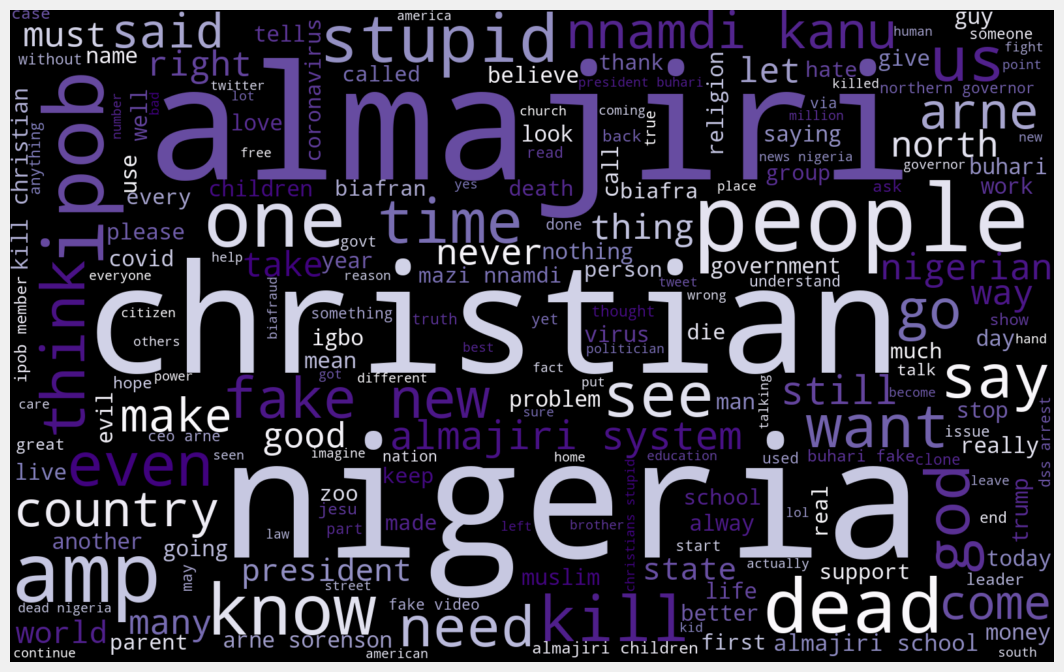
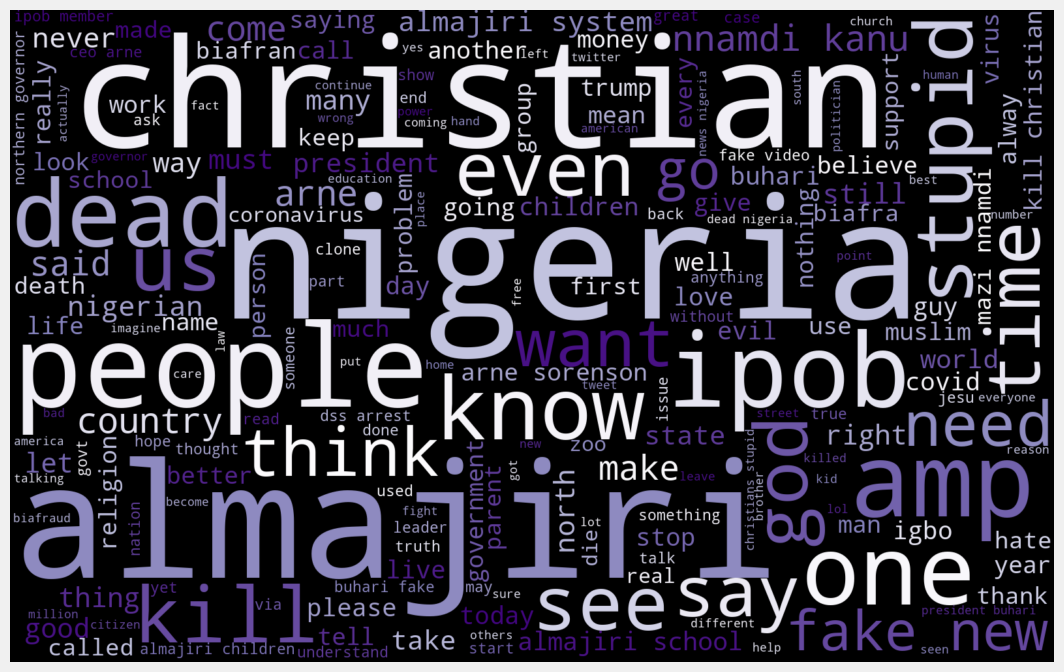
Modify bigram and trigram makers

diff --git a/pre_training.py b/pre_training.py
@@ -97,80 +97,34 @@ def create_wordcloud(df, outfile, colormap=None):
     plt.close()
 
 
-def create_most_frequent_bigrams_neg(train, n=20):
-    fig, ax = plt.subplots(figsize=(12, 10))
-    bigrams_series = pd.Series(_get_bigrams_neg(train)).value_counts()[:n]
-    bigrams_series.sort_values().plot.barh(color="teal", width=0.9, ax=ax)
-    # plt.title(f"{n} Most Frequently Occuring Bigrams (Hate-speech Tweets)")
-    plt.ylabel("Bigram")
-    plt.xlabel("Frequency")
-    plt.savefig(DATA_DIR / "bigrams_neg.png", bbox_inches="tight")
+def create_modal_bigrams(df, outfile, n=20):
+    fig, ax = plt.subplots(figsize=(16, 10))
+    bigram_series = pd.Series(_get_bigrams(df)).value_counts()[:n]
+    bigram_series.sort_values().plot.barh(color="green", alpha=0.5, width=1, ax=ax)
+    plt.savefig(outfile, bbox_inches="tight")
     plt.close()
 
 
-def create_most_frequent_bigrams_pos(train, n=20):
-    fig, ax = plt.subplots(figsize=(12, 10))
-    bigrams_series = pd.Series(_get_bigrams_pos(train)).value_counts()[:n]
-    bigrams_series.sort_values().plot.barh(color="teal", width=0.9, ax=ax)
-    # plt.title(f"{n} Most Frequently Occuring Bigrams (Non-hate-speech Tweets)")
-    plt.ylabel("Bigram")
-    plt.xlabel("Frequency")
-    plt.savefig(DATA_DIR / "bigrams_pos.png", bbox_inches="tight")
+def create_modal_trigrams(df, outfile, n=20):
+    fig, ax = plt.subplots(figsize=(16, 10))
+    bigram_series = pd.Series(_get_trigrams(df)).value_counts()[:n]
+    bigram_series.sort_values().plot.barh(color="green", alpha=0.5, width=1, ax=ax)
+    plt.savefig(outfile, bbox_inches="tight")
     plt.close()
 
 
-def create_most_frequent_trigrams_neg(train, n=20):
-    fig, ax = plt.subplots(figsize=(12, 10))
-    trigrams_series = pd.Series(_get_trigrams_neg(train)).value_counts()[:n]
-    trigrams_series.sort_values().plot.barh(color="teal", width=0.9, ax=ax)
-    # plt.title(f"{n} Most Frequently Occuring Trigrams (Hate-speech Tweets)")
-    plt.ylabel("Trigram")
-    plt.xlabel("Frequency")
-    plt.savefig(DATA_DIR / "trigrams_neg.png", bbox_inches="tight")
-    plt.close()
+def _get_bigrams(df):
+    list_of_bigrams = (
+        df["Tweet"].map(lambda tweet: list(nltk.ngrams(tweet.split(), 2))).to_list()
+    )
+    return [item for sublist in list_of_bigrams for item in sublist]
 
 
-def create_most_frequent_trigrams_pos(train, n=20):
-    fig, ax = plt.subplots(figsize=(12, 10))
-    trigrams_series = pd.Series(_get_trigrams_pos(train)).value_counts()[:n]
-    trigrams_series.sort_values().plot.barh(color="teal", width=0.9, ax=ax)
-    # plt.title(f"{n} Most Frequently Occuring Trigrams (Non-hate-speech Tweets)")
-    plt.ylabel("Trigram")
-    plt.xlabel("Frequency")
-    plt.savefig(DATA_DIR / "trigrams_pos.png", bbox_inches="tight")
-    plt.close()
-
-
-def _get_bigrams_neg(train):
-    neg_tweets = train[train.Polarity == 1]
-    list_of_neg_bigrams = neg_tweets.Tweet.map(
-        lambda tweet: list(nltk.ngrams(tweet.split(), 2))
-    ).to_list()
-    return [item for sublist in list_of_neg_bigrams for item in sublist]
-
-
-def _get_trigrams_neg(train):
-    neg_tweets = train[train.Polarity == 1]
-    list_of_neg_trigrams = neg_tweets.Tweet.map(
-        lambda tweet: list(nltk.ngrams(tweet.split(), 3))
-    ).to_list()
-    return [item for sublist in list_of_neg_trigrams for item in sublist]
-
-
-def _get_bigrams_pos(train):
-    pos_tweets = train[train.Polarity == 0]
-    list_of_pos_bigrams = pos_tweets.Tweet.map(
-        lambda tweet: list(nltk.ngrams(tweet.split(), 2))
-    ).to_list()
-    return [item for sublist in list_of_pos_bigrams for item in sublist]
-
-
-def _get_trigrams_pos(train):
-    pos_tweets = train[train.Polarity == 0]
-    list_of_pos_trigrams = pos_tweets.Tweet.map(
-        lambda tweet: list(nltk.ngrams(tweet.split(), 3))
-    ).to_list()
-    return [item for sublist in list_of_pos_trigrams for item in sublist]
+def _get_trigrams(df):
+    list_of_trigrams = (
+        df["Tweet"].map(lambda tweet: list(nltk.ngrams(tweet.split(), 3))).to_list()
+    )
+    return [item for sublist in list_of_trigrams for item in sublist]
 
 
 if __name__ == "__main__":
@@ -210,23 +164,37 @@ if __name__ == "__main__":
     )
     print("Creating hate word cloud...")
     create_wordcloud(
-        df_hate, outfile=(DATA_DIR / "wordcloud--hate.png"), colormap="OrRd_r"
+        df_hate, outfile=(DATA_DIR / "wordcloud--hate.png"), colormap="Reds_r"
     )
-    print("Creating neutral word cloud...")
+    print("Creating offensive word cloud...")
     create_wordcloud(
         df_offensive,
         outfile=(DATA_DIR / "wordcloud--offensive.png"),
-        colormap="Reds_r",
+        colormap="OrRd_r",
     )
 
     # create bigrams
     print()
-    print("Creating bigrams...")
-    create_most_frequent_bigrams_pos(df)
-    create_most_frequent_bigrams_neg(df)
+
+    print("Creating neutral bigrams...")
+    create_modal_bigrams(df_neutral, outfile=(DATA_DIR / "bigrams--neutral.png"))
+
+    print("Creating hate bigrams...")
+    create_modal_bigrams(df_hate, outfile=(DATA_DIR / "bigrams--hate.png"))
+
+    print("Creating offensive bigrams...")
+    create_modal_bigrams(df_offensive, outfile=(DATA_DIR / "bigrams--offensive.png"))
 
     # create trigrams
     print()
-    print("Creating trigrams")
-    create_most_frequent_trigrams_pos(df)
-    create_most_frequent_trigrams_neg(df)
+    print("Creating neutral trigrams...")
+    create_modal_trigrams(df_neutral, outfile=(DATA_DIR / "trigrams--neutral.png"))
+
+    print("Creating hate trigrams...")
+    create_modal_trigrams(df_hate, outfile=(DATA_DIR / "trigrams--hate.png"))
+
+    print("Creating offensive trigrams...")
+    create_modal_trigrams(df_offensive, outfile=(DATA_DIR / "trigrams--offensive.png"))
+
+    print()
+    print("DONE!")
